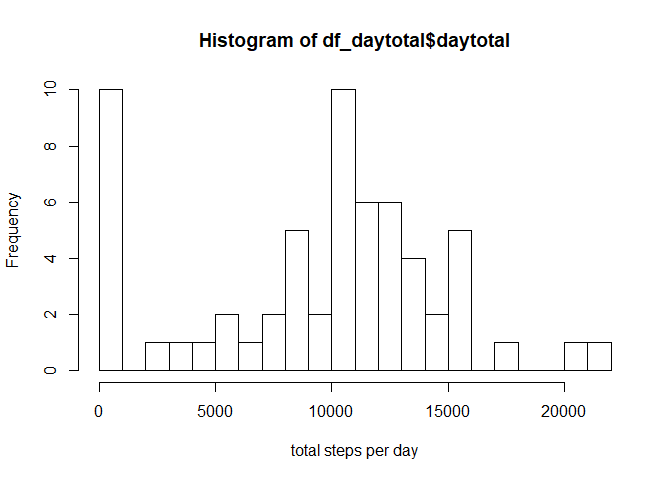
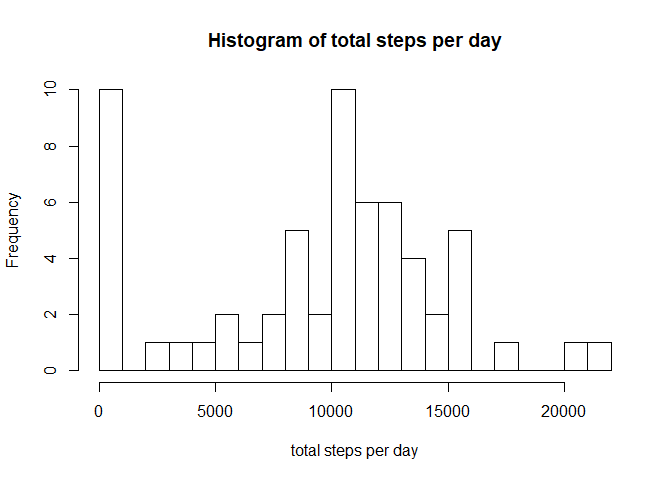
change plot titles

Changed region(s): [[0.2812, 0.0625, 0.7812, 0.125]]

diff --git a/PA1_template.html b/PA1_template.html
@@ -362,6 +362,7 @@ summary {
 
 
 <h1 class="title toc-ignore">Reproducible Research: Peer Assessment 1</h1>
+<h4 class="date">3/2/2020</h4>
 
 </div>
 
@@ -379,8 +380,8 @@ table1$date2 &lt;- as.Date(table1$date, &quot;%Y-%m-%d&quot;)</code></pre>
 <p>calculate the sum of steps for each day using tapply with na removed, and plot the histogram</p>
 <pre class="r"><code>daytotal &lt;- tapply(table1$step, table1$date, sum, na.rm = T)
 df_daytotal &lt;- data.frame(daytotal)
-hist(df_daytotal$daytotal, breaks = 20, xlab = &quot;total steps per day&quot;)</code></pre>
[1 lines of base64/hex data omitted]
+hist(df_daytotal$daytotal, breaks = 20, xlab = &quot;total steps per day&quot;, main = &quot;Histogram of total steps per day&quot;)</code></pre>
[1 lines of base64/hex data omitted]
 <pre class="r"><code>#summary(df_daytotal$daytotal)
 step_median &lt;- median(df_daytotal$daytotal)
 step_mean &lt;- mean(df_daytotal$daytotal)</code></pre>
@@ -411,8 +412,8 @@ for (n in seq(1, nrow(table2),1)) {
 <p>Use tapply function to calculate the sum for the new data frame</p>
 <pre class="r"><code>daytotal &lt;- tapply(table2$step, table2$date, sum)
 df_daytotal2 &lt;- data.frame(daytotal)
-hist(df_daytotal2$daytotal, breaks = 20, xlab = &quot;total steps per day&quot;)</code></pre>
[1 lines of base64/hex data omitted]
+hist(df_daytotal2$daytotal, breaks = 20, xlab = &quot;total steps per day&quot;, main = &quot;Total steps per day&quot;)</code></pre>
[1 lines of base64/hex data omitted]
 <pre class="r"><code>step_median2 &lt;- median(df_daytotal2$daytotal)
 step_mean2 &lt;- mean(df_daytotal2$daytotal)</code></pre>
 <p>The new median and new mean values of the total steps per day are 10766.19, and 10766.19.</p>

diff --git a/PA1_template.md b/PA1_template.md
@@ -1,5 +1,6 @@
 ---
 title: "Reproducible Research: Peer Assessment 1"
+date: "3/2/2020"
 output: 
   html_document:
     keep_md: true
@@ -25,7 +26,7 @@ calculate the sum of steps for each day using tapply with na removed, and plot t
 ```r
 daytotal <- tapply(table1$step, table1$date, sum, na.rm = T)
 df_daytotal <- data.frame(daytotal)
-hist(df_daytotal$daytotal, breaks = 20, xlab = "total steps per day")
+hist(df_daytotal$daytotal, breaks = 20, xlab = "total steps per day", main = "Histogram of total steps per day")
 ```
 
 ![](PA1_template_files/figure-html/Q1-1.png)<!-- -->
@@ -79,7 +80,7 @@ Use tapply function to calculate the sum for the new data frame
 ```r
 daytotal <- tapply(table2$step, table2$date, sum)
 df_daytotal2 <- data.frame(daytotal)
-hist(df_daytotal2$daytotal, breaks = 20, xlab = "total steps per day")
+hist(df_daytotal2$daytotal, breaks = 20, xlab = "total steps per day", main = "Total steps per day")
 ```
 
 ![](PA1_template_files/figure-html/Q3-2-1.png)<!-- -->
